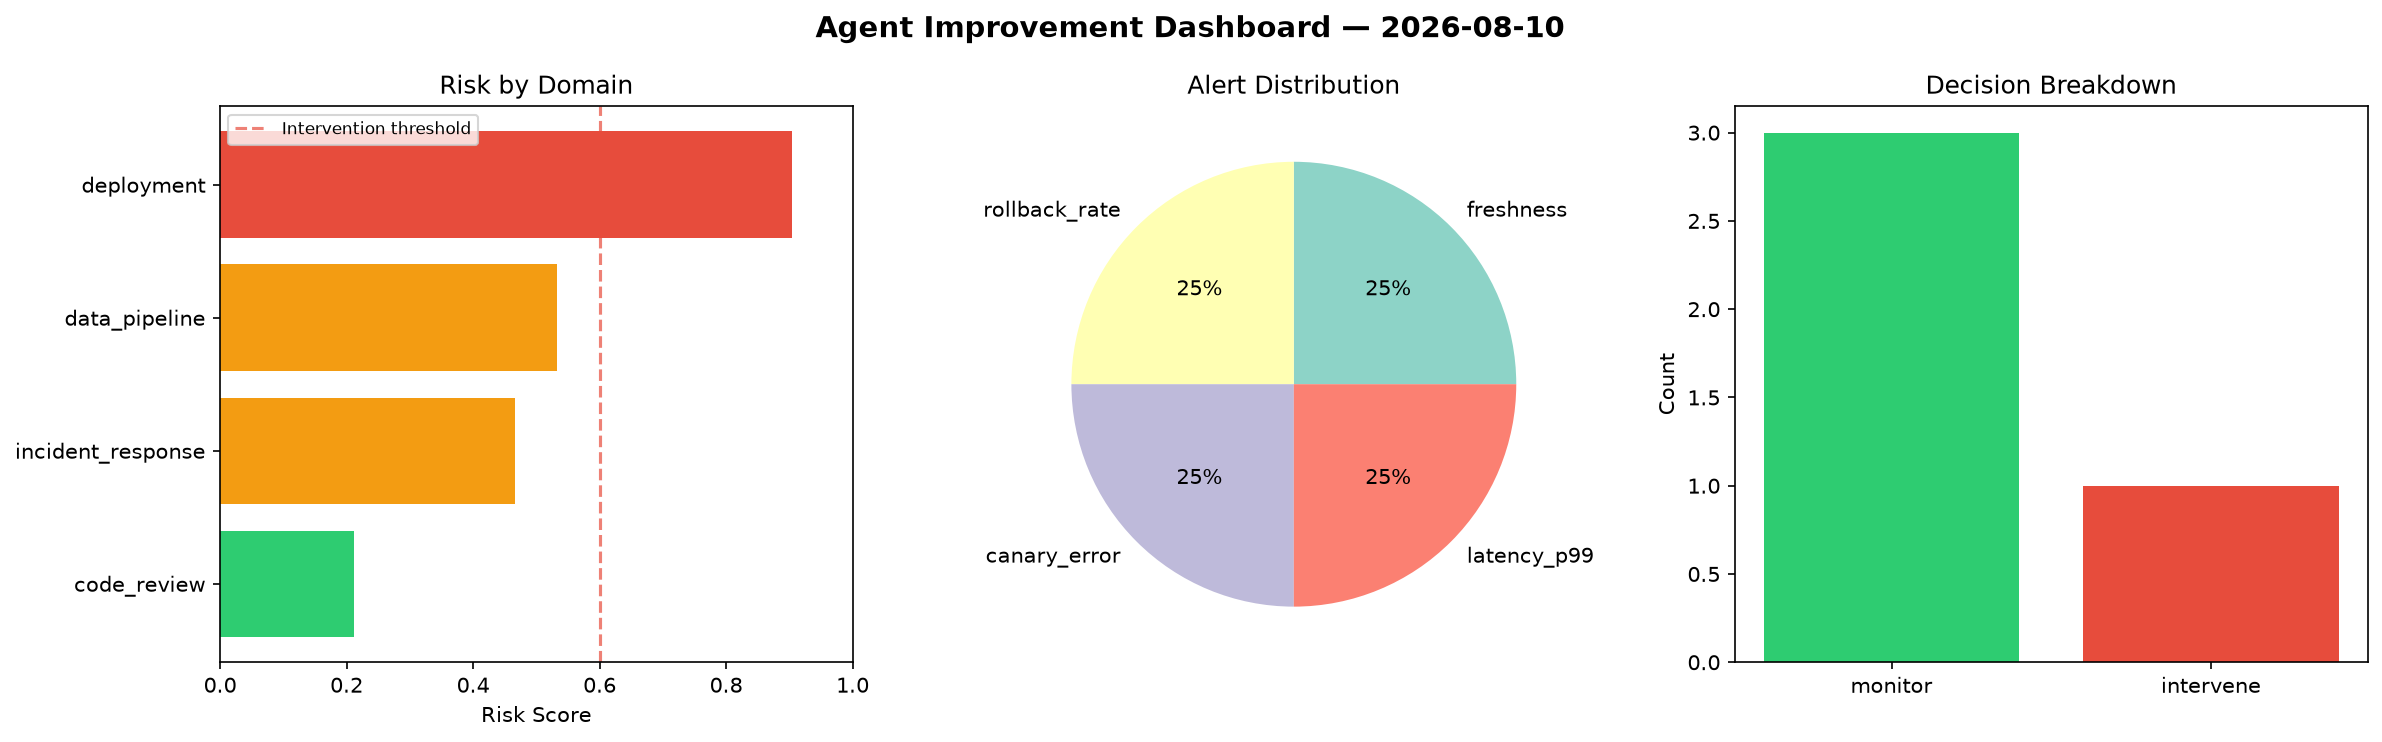
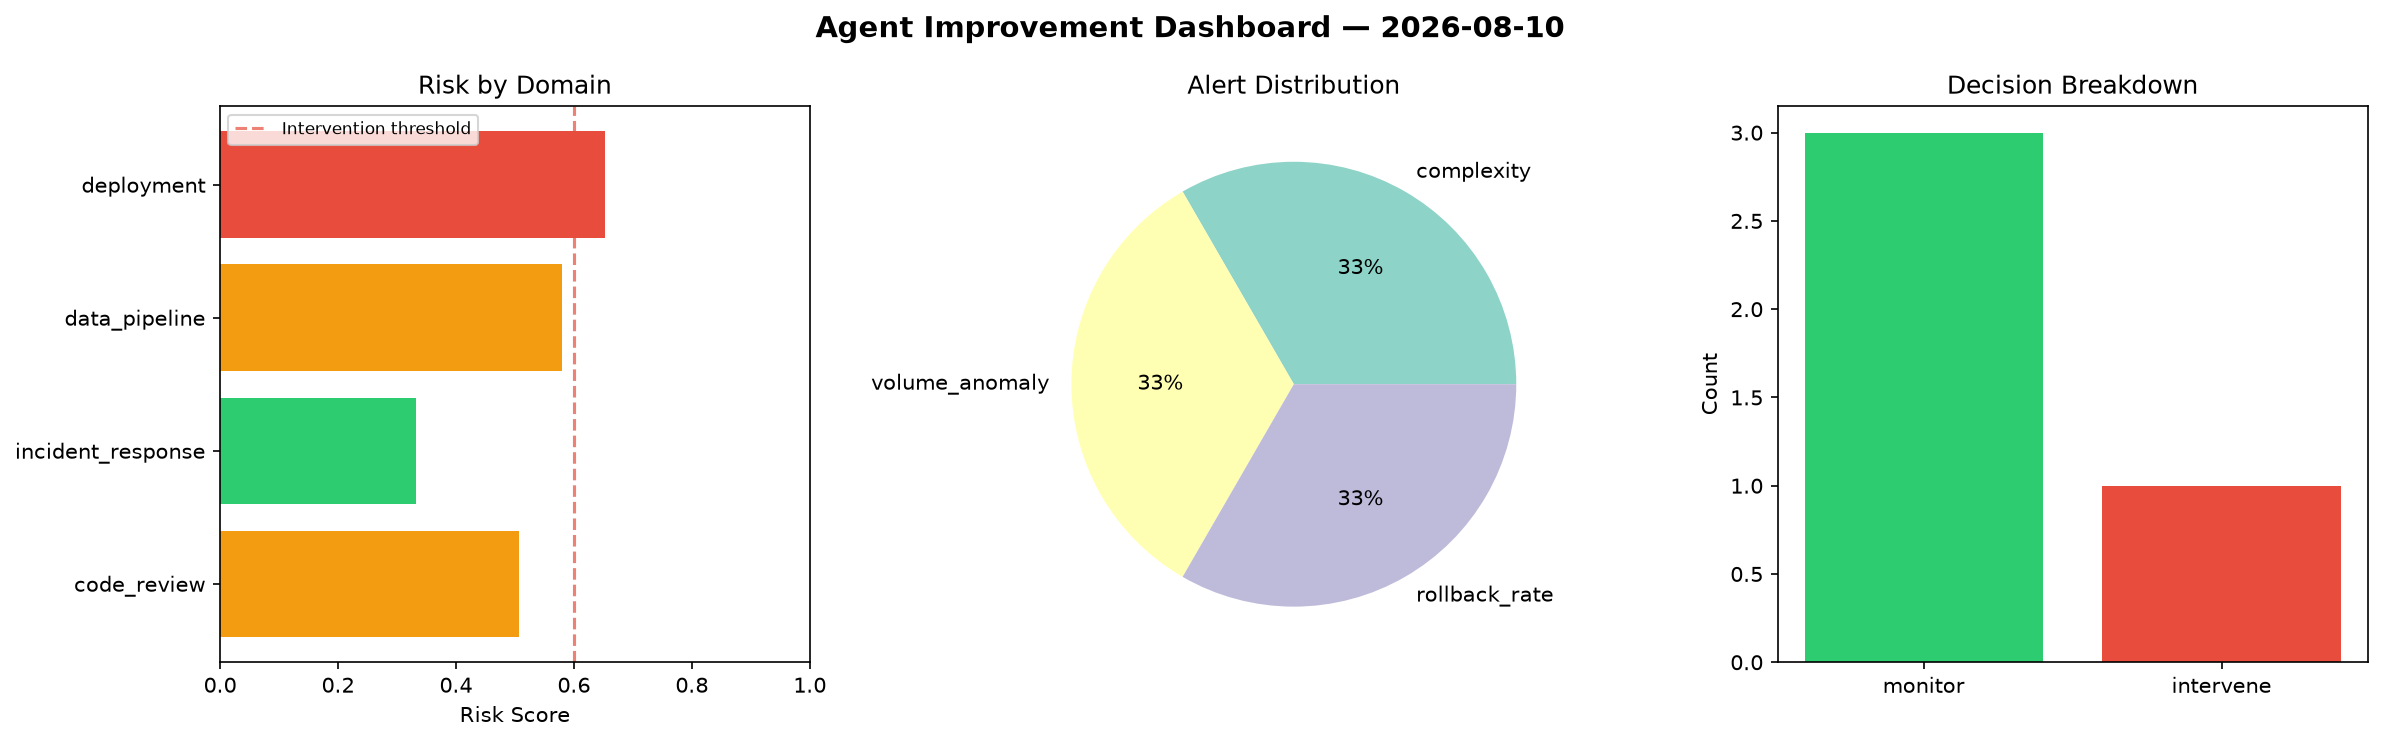
agent-improvement: daily cycle 2026-08-10T15:16

diff --git a/logs/2026-08-10.md b/logs/2026-08-10.md
@@ -1,6 +1,6 @@
 # Agent Improvement Report — 2026-08-10
 
-**Cycle ID:** `abb760ff` | **Avg Risk:** 0.5286 | **Interventions:** 1/4
+**Cycle ID:** `f49c06e4` | **Avg Risk:** 0.518 | **Interventions:** 1/4
 
 ![Dashboard](2026-08-10_dashboard.png)
 
@@ -10,18 +10,18 @@
 
 | Domain | Risk Score | Decision | Alerts |
 |--------|-----------|----------|--------|
-| code_review | 0.2117 | monitor | none |
-| incident_response | 0.4657 | monitor | none |
-| data_pipeline | 0.5319 | monitor | freshness |
-| deployment | 0.9049 | intervene | rollback_rate, canary_error, latency_p99 |
+| code_review | 0.5072 | monitor | complexity |
+| incident_response | 0.3326 | monitor | none |
+| data_pipeline | 0.579 | monitor | volume_anomaly |
+| deployment | 0.6531 | intervene | rollback_rate |
 
 ## Delta vs Yesterday
 
 | Domain | Today | Yesterday | Change |
 |--------|-------|-----------|--------|
-| code_review | 0.2117 | 0.8067 | 📉 -73.8% |
-| incident_response | 0.4657 | 0.4383 | 📈 6.3% |
-| data_pipeline | 0.5319 | 0.3794 | 📈 40.2% |
-| deployment | 0.9049 | 0.561 | 📈 61.3% |
+| code_review | 0.5072 | 0.8067 | 📉 -37.1% |
+| incident_response | 0.3326 | 0.4383 | 📉 -24.1% |
+| data_pipeline | 0.579 | 0.3794 | 📈 52.6% |
+| deployment | 0.6531 | 0.561 | 📈 16.4% |
 
 **Refinement:** `{'adjustment': 'tighten_thresholds', 'trend': 'degrading', 'window': 4}`
